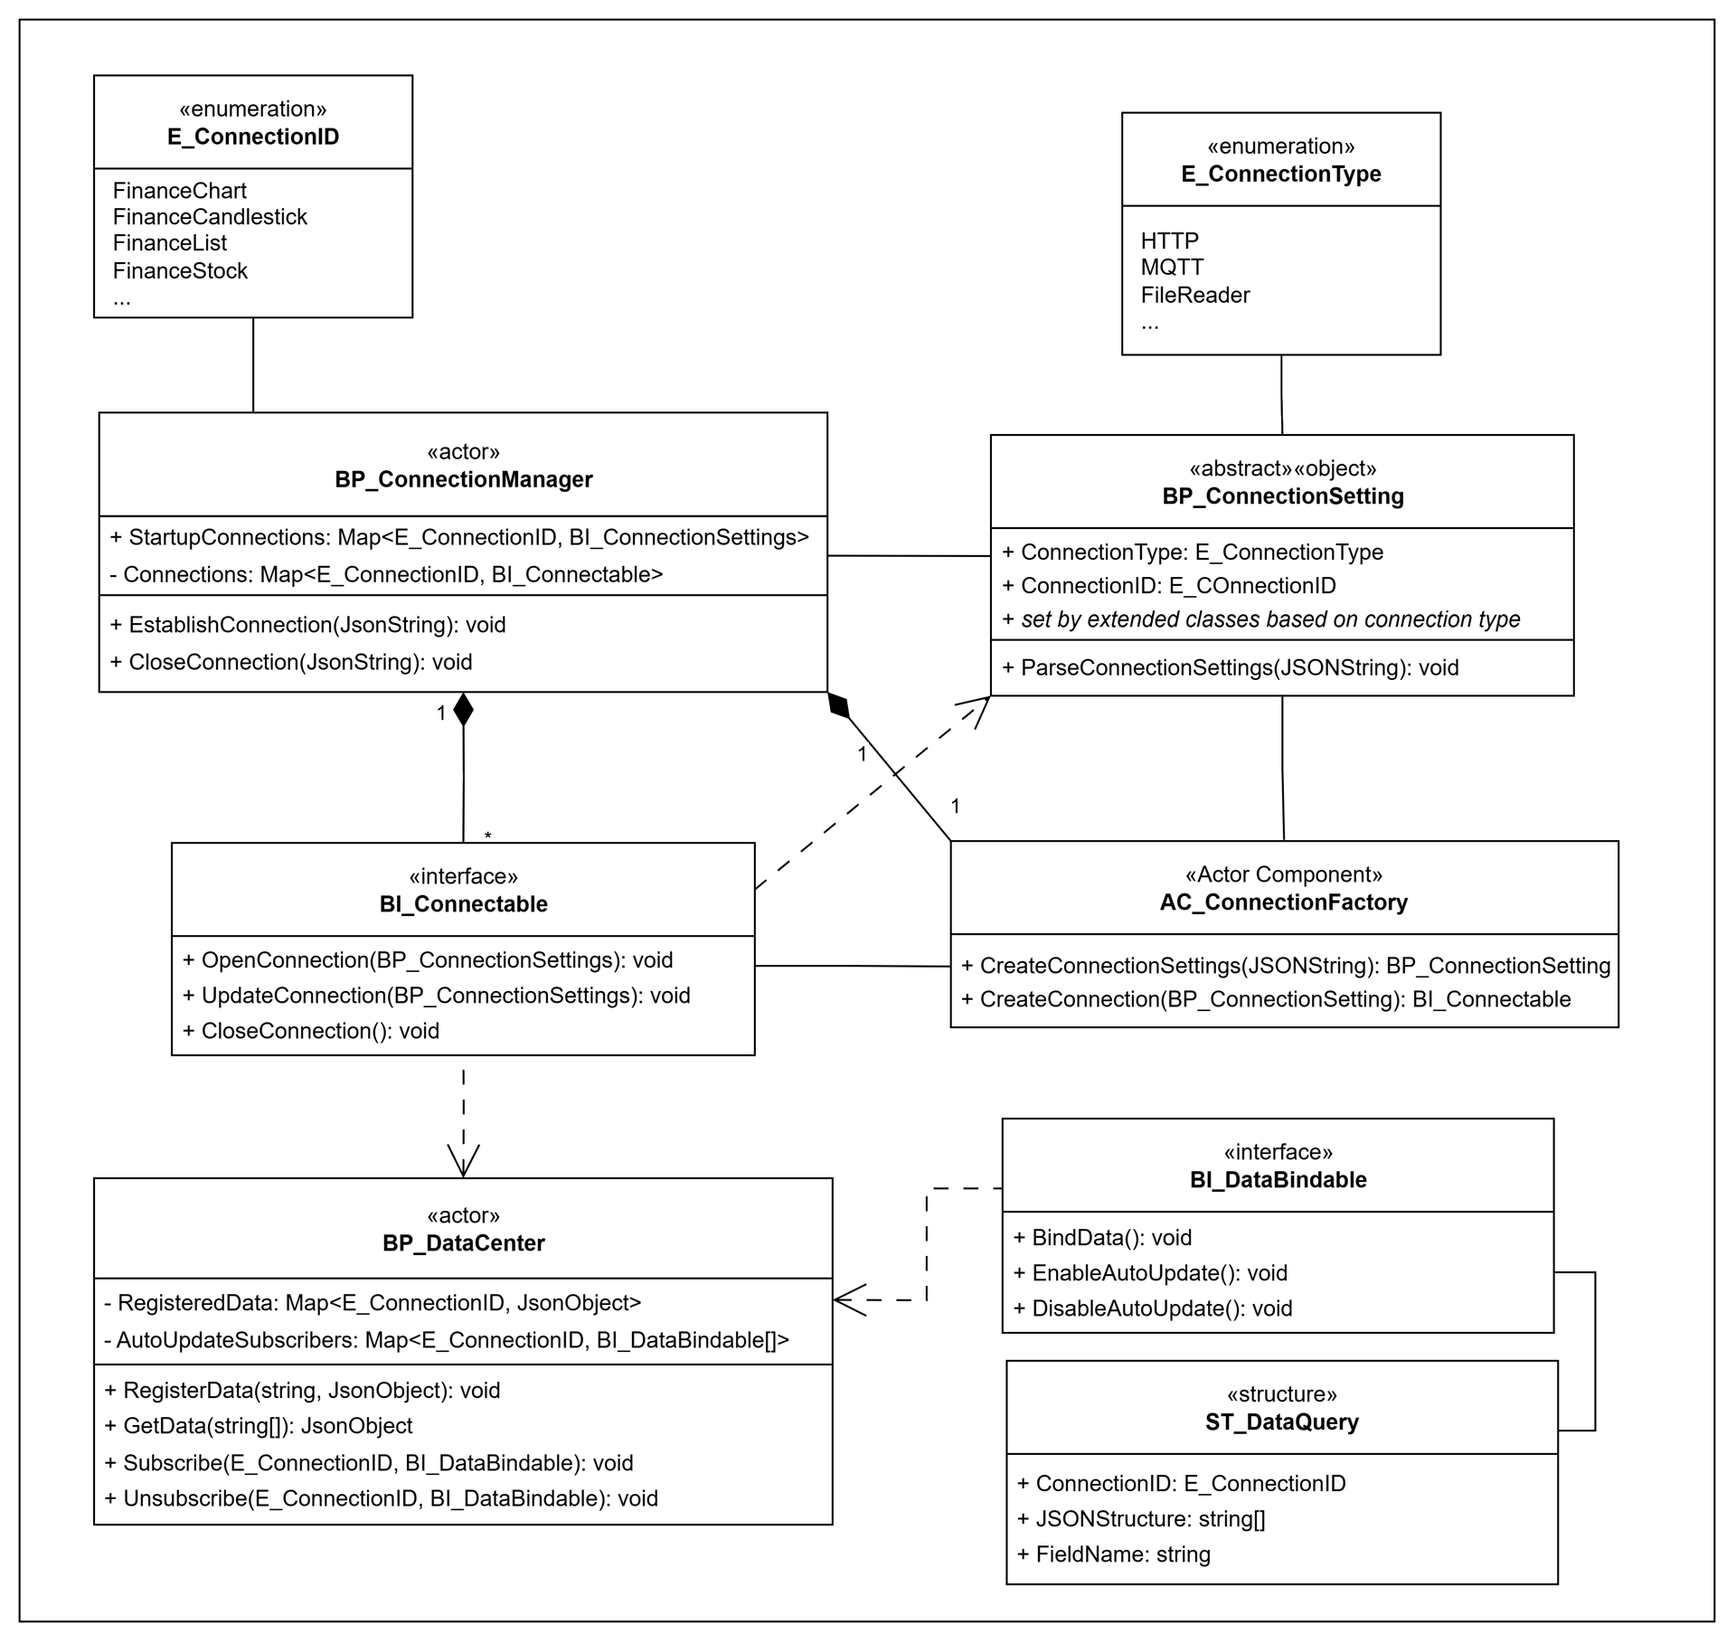
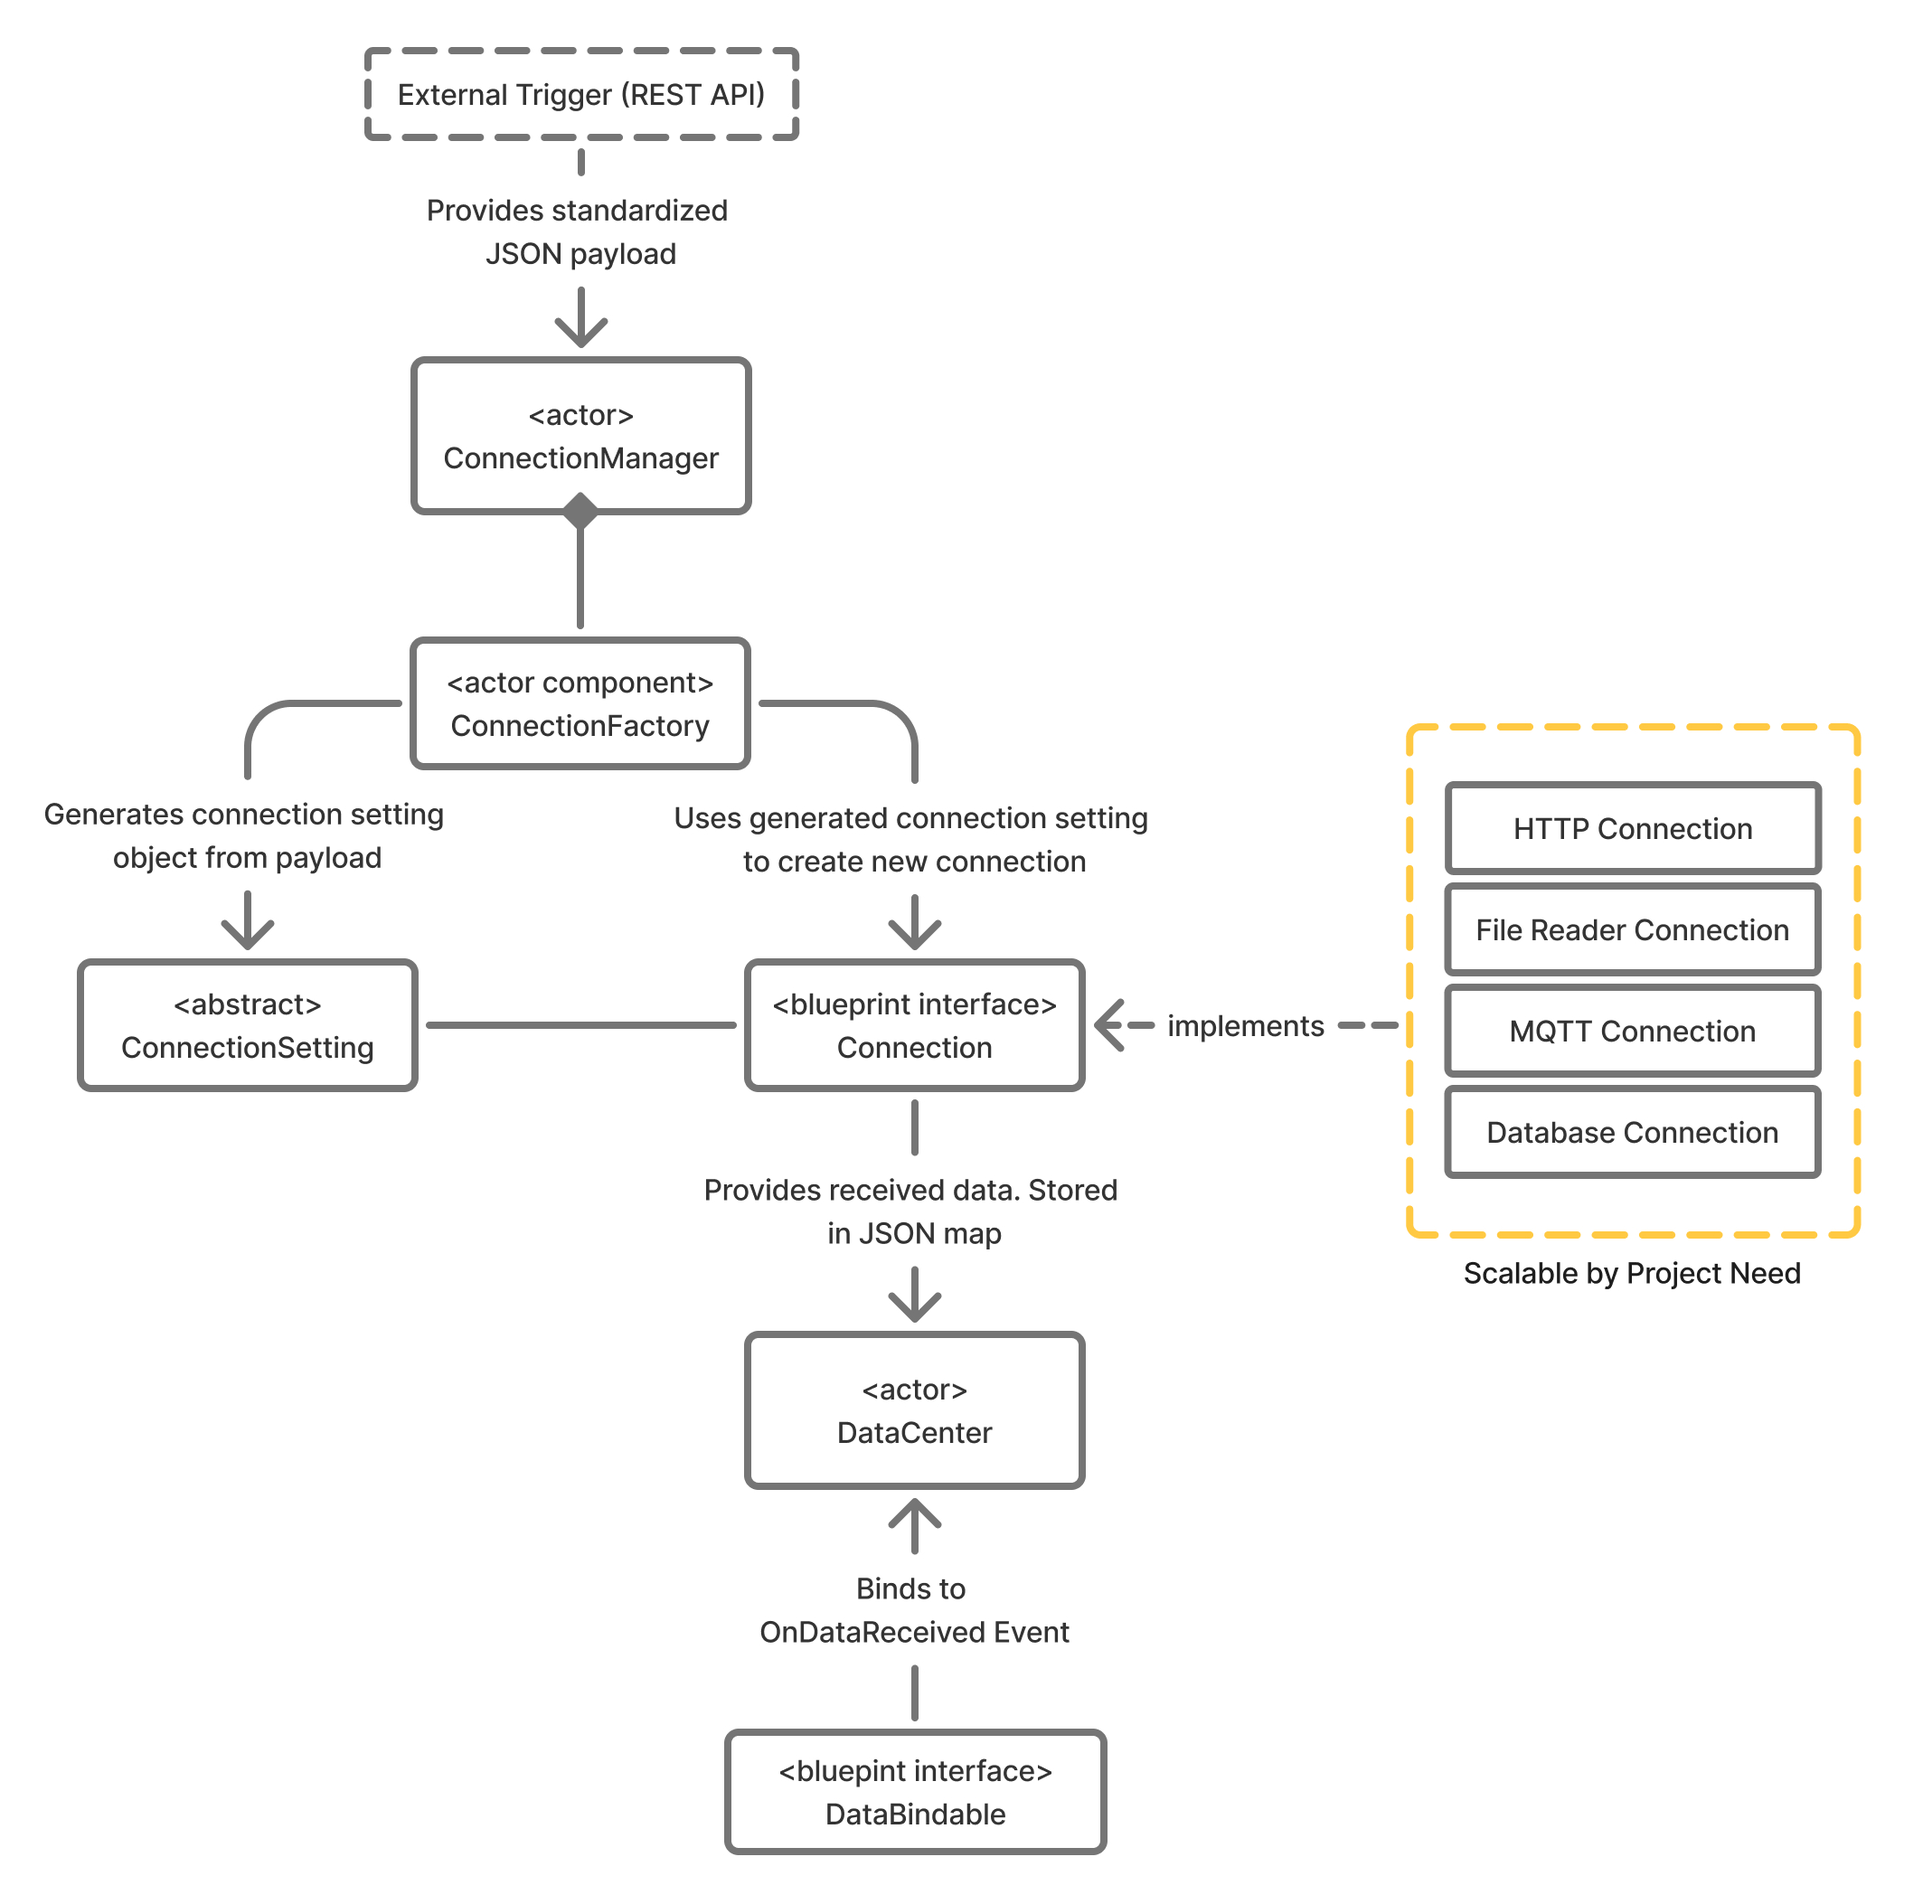
Updated Unreal framework diagrams to match diagram styles and removed proprietary information

diff --git a/_site/professional-case-studies/unity-framework/index.html b/_site/professional-case-studies/unity-framework/index.html
@@ -35,11 +35,11 @@
 <meta property="og:url" content="http://localhost:4000/professional-case-studies/unity-framework/" />
 <meta property="og:site_name" content="Julian Glass-Pilon" />
 <meta property="og:type" content="article" />
-<meta property="article:published_time" content="2026-04-01T15:39:46-04:00" />
+<meta property="article:published_time" content="2026-04-06T12:55:12-04:00" />
 <meta name="twitter:card" content="summary" />
 <meta property="twitter:title" content="Unity Framework for Broadcast" />
 <script type="application/ld+json">
-{"@context":"https://schema.org","@type":"BlogPosting","dateModified":"2026-04-01T15:39:46-04:00","datePublished":"2026-04-01T15:39:46-04:00","description":"Broadcast-friendly Unity framework designed to streamline the control and creation of data driven graphics for touchscreen interactive applications and increase iteration speed.","headline":"Unity Framework for Broadcast","mainEntityOfPage":{"@type":"WebPage","@id":"http://localhost:4000/professional-case-studies/unity-framework/"},"url":"http://localhost:4000/professional-case-studies/unity-framework/"}</script>
+{"@context":"https://schema.org","@type":"BlogPosting","dateModified":"2026-04-06T12:55:12-04:00","datePublished":"2026-04-06T12:55:12-04:00","description":"Broadcast-friendly Unity framework designed to streamline the control and creation of data driven graphics for touchscreen interactive applications and increase iteration speed.","headline":"Unity Framework for Broadcast","mainEntityOfPage":{"@type":"WebPage","@id":"http://localhost:4000/professional-case-studies/unity-framework/"},"url":"http://localhost:4000/professional-case-studies/unity-framework/"}</script>
 <!-- End Jekyll SEO tag -->
 
 

diff --git a/_site/professional-case-studies/unreal-framework/index.html b/_site/professional-case-studies/unreal-framework/index.html
@@ -35,11 +35,11 @@
 <meta property="og:url" content="http://localhost:4000/professional-case-studies/unreal-framework/" />
 <meta property="og:site_name" content="Julian Glass-Pilon" />
 <meta property="og:type" content="article" />
-<meta property="article:published_time" content="2026-04-01T15:39:46-04:00" />
+<meta property="article:published_time" content="2026-04-06T12:55:12-04:00" />
 <meta name="twitter:card" content="summary" />
 <meta property="twitter:title" content="Unreal Framework for Broadcast" />
 <script type="application/ld+json">
-{"@context":"https://schema.org","@type":"BlogPosting","dateModified":"2026-04-01T15:39:46-04:00","datePublished":"2026-04-01T15:39:46-04:00","description":"Broadcast-friendly Unreal framework designed to streamline the control and creation of data driven graphics for AR/VR with protocol agnostic data handling.","headline":"Unreal Framework for Broadcast","mainEntityOfPage":{"@type":"WebPage","@id":"http://localhost:4000/professional-case-studies/unreal-framework/"},"url":"http://localhost:4000/professional-case-studies/unreal-framework/"}</script>
+{"@context":"https://schema.org","@type":"BlogPosting","dateModified":"2026-04-06T12:55:12-04:00","datePublished":"2026-04-06T12:55:12-04:00","description":"Broadcast-friendly Unreal framework designed to streamline the control and creation of data driven graphics for AR/VR with protocol agnostic data handling.","headline":"Unreal Framework for Broadcast","mainEntityOfPage":{"@type":"WebPage","@id":"http://localhost:4000/professional-case-studies/unreal-framework/"},"url":"http://localhost:4000/professional-case-studies/unreal-framework/"}</script>
 <!-- End Jekyll SEO tag -->
 
 

diff --git a/_site/professional-case-studies/design-tools/index.html b/_site/professional-case-studies/design-tools/index.html
@@ -35,11 +35,11 @@
 <meta property="og:url" content="http://localhost:4000/professional-case-studies/design-tools/" />
 <meta property="og:site_name" content="Julian Glass-Pilon" />
 <meta property="og:type" content="article" />
-<meta property="article:published_time" content="2026-04-01T15:39:46-04:00" />
+<meta property="article:published_time" content="2026-04-06T12:55:12-04:00" />
 <meta name="twitter:card" content="summary" />
 <meta property="twitter:title" content="Design &amp; Integration Tools" />
 <script type="application/ld+json">
-{"@context":"https://schema.org","@type":"BlogPosting","dateModified":"2026-04-01T15:39:46-04:00","datePublished":"2026-04-01T15:39:46-04:00","description":"A collection of Unity UI systems designed to improve iteration speed, accessibility, and design fidelity through close collaboration with artists and UX designers.","headline":"Design &amp; Integration Tools","mainEntityOfPage":{"@type":"WebPage","@id":"http://localhost:4000/professional-case-studies/design-tools/"},"url":"http://localhost:4000/professional-case-studies/design-tools/"}</script>
+{"@context":"https://schema.org","@type":"BlogPosting","dateModified":"2026-04-06T12:55:12-04:00","datePublished":"2026-04-06T12:55:12-04:00","description":"A collection of Unity UI systems designed to improve iteration speed, accessibility, and design fidelity through close collaboration with artists and UX designers.","headline":"Design &amp; Integration Tools","mainEntityOfPage":{"@type":"WebPage","@id":"http://localhost:4000/professional-case-studies/design-tools/"},"url":"http://localhost:4000/professional-case-studies/design-tools/"}</script>
 <!-- End Jekyll SEO tag -->
 
 

diff --git a/_site/personal-projects/refantazio-menu-remake/index.html b/_site/personal-projects/refantazio-menu-remake/index.html
@@ -35,11 +35,11 @@
 <meta property="og:url" content="http://localhost:4000/personal-projects/refantazio-menu-remake/" />
 <meta property="og:site_name" content="Julian Glass-Pilon" />
 <meta property="og:type" content="article" />
-<meta property="article:published_time" content="2026-04-01T15:39:46-04:00" />
+<meta property="article:published_time" content="2026-04-06T12:55:12-04:00" />
 <meta name="twitter:card" content="summary" />
 <meta property="twitter:title" content="Metaphor Refantazio UI Recreation" />
 <script type="application/ld+json">
-{"@context":"https://schema.org","@type":"BlogPosting","dateModified":"2026-04-01T15:39:46-04:00","datePublished":"2026-04-01T15:39:46-04:00","description":"Recreation of the award winning Metaphor Refantazio’s UI &amp; Menu. Built in Unity.","headline":"Metaphor Refantazio UI Recreation","mainEntityOfPage":{"@type":"WebPage","@id":"http://localhost:4000/personal-projects/refantazio-menu-remake/"},"url":"http://localhost:4000/personal-projects/refantazio-menu-remake/"}</script>
+{"@context":"https://schema.org","@type":"BlogPosting","dateModified":"2026-04-06T12:55:12-04:00","datePublished":"2026-04-06T12:55:12-04:00","description":"Recreation of the award winning Metaphor Refantazio’s UI &amp; Menu. Built in Unity.","headline":"Metaphor Refantazio UI Recreation","mainEntityOfPage":{"@type":"WebPage","@id":"http://localhost:4000/personal-projects/refantazio-menu-remake/"},"url":"http://localhost:4000/personal-projects/refantazio-menu-remake/"}</script>
 <!-- End Jekyll SEO tag -->
 
 

diff --git a/_site/index.html b/_site/index.html
@@ -35,11 +35,11 @@
 <meta property="og:url" content="http://localhost:4000/" />
 <meta property="og:site_name" content="Julian Glass-Pilon" />
 <meta property="og:type" content="article" />
-<meta property="article:published_time" content="2026-04-01T15:39:46-04:00" />
+<meta property="article:published_time" content="2026-04-06T12:55:12-04:00" />
 <meta name="twitter:card" content="summary" />
 <meta property="twitter:title" content="Home" />
 <script type="application/ld+json">
-{"@context":"https://schema.org","@type":"WebSite","dateModified":"2026-04-01T15:39:46-04:00","datePublished":"2026-04-01T15:39:46-04:00","description":"A minimal, responsive and feature-rich Jekyll theme for technical writing.","headline":"Home","name":"Julian Glass-Pilon","sameAs":["https://github.com/jglasspilon","www.linkedin.com/in/julian-glass-pilon"],"url":"http://localhost:4000/"}</script>
+{"@context":"https://schema.org","@type":"WebSite","dateModified":"2026-04-06T12:55:12-04:00","datePublished":"2026-04-06T12:55:12-04:00","description":"A minimal, responsive and feature-rich Jekyll theme for technical writing.","headline":"Home","name":"Julian Glass-Pilon","sameAs":["https://github.com/jglasspilon","www.linkedin.com/in/julian-glass-pilon"],"url":"http://localhost:4000/"}</script>
 <!-- End Jekyll SEO tag -->
 
 

diff --git a/_site/professional-case-studies/index.html b/_site/professional-case-studies/index.html
@@ -35,11 +35,11 @@
 <meta property="og:url" content="http://localhost:4000/professional-case-studies/" />
 <meta property="og:site_name" content="Julian Glass-Pilon" />
 <meta property="og:type" content="article" />
-<meta property="article:published_time" content="2026-04-01T15:39:46-04:00" />
+<meta property="article:published_time" content="2026-04-06T12:55:12-04:00" />
 <meta name="twitter:card" content="summary" />
 <meta property="twitter:title" content="Professional Projects" />
 <script type="application/ld+json">
-{"@context":"https://schema.org","@type":"BlogPosting","dateModified":"2026-04-01T15:39:46-04:00","datePublished":"2026-04-01T15:39:46-04:00","description":"Professional Projects","headline":"Professional Projects","mainEntityOfPage":{"@type":"WebPage","@id":"http://localhost:4000/professional-case-studies/"},"url":"http://localhost:4000/professional-case-studies/"}</script>
+{"@context":"https://schema.org","@type":"BlogPosting","dateModified":"2026-04-06T12:55:12-04:00","datePublished":"2026-04-06T12:55:12-04:00","description":"Professional Projects","headline":"Professional Projects","mainEntityOfPage":{"@type":"WebPage","@id":"http://localhost:4000/professional-case-studies/"},"url":"http://localhost:4000/professional-case-studies/"}</script>
 <!-- End Jekyll SEO tag -->
 
 

diff --git a/_site/personal-projects/index.html b/_site/personal-projects/index.html
@@ -35,11 +35,11 @@
 <meta property="og:url" content="http://localhost:4000/personal-projects/" />
 <meta property="og:site_name" content="Julian Glass-Pilon" />
 <meta property="og:type" content="article" />
-<meta property="article:published_time" content="2026-04-01T15:39:46-04:00" />
+<meta property="article:published_time" content="2026-04-06T12:55:12-04:00" />
 <meta name="twitter:card" content="summary" />
 <meta property="twitter:title" content="Personal Projects" />
 <script type="application/ld+json">
-{"@context":"https://schema.org","@type":"BlogPosting","dateModified":"2026-04-01T15:39:46-04:00","datePublished":"2026-04-01T15:39:46-04:00","description":"Personal Projects","headline":"Personal Projects","mainEntityOfPage":{"@type":"WebPage","@id":"http://localhost:4000/personal-projects/"},"url":"http://localhost:4000/personal-projects/"}</script>
+{"@context":"https://schema.org","@type":"BlogPosting","dateModified":"2026-04-06T12:55:12-04:00","datePublished":"2026-04-06T12:55:12-04:00","description":"Personal Projects","headline":"Personal Projects","mainEntityOfPage":{"@type":"WebPage","@id":"http://localhost:4000/personal-projects/"},"url":"http://localhost:4000/personal-projects/"}</script>
 <!-- End Jekyll SEO tag -->
 
 

diff --git a/_site/contact-me/index.html b/_site/contact-me/index.html
@@ -35,11 +35,11 @@
 <meta property="og:url" content="http://localhost:4000/contact-me/" />
 <meta property="og:site_name" content="Julian Glass-Pilon" />
 <meta property="og:type" content="article" />
-<meta property="article:published_time" content="2026-04-01T15:39:46-04:00" />
+<meta property="article:published_time" content="2026-04-06T12:55:12-04:00" />
 <meta name="twitter:card" content="summary" />
 <meta property="twitter:title" content="Contact Me" />
 <script type="application/ld+json">
-{"@context":"https://schema.org","@type":"BlogPosting","dateModified":"2026-04-01T15:39:46-04:00","datePublished":"2026-04-01T15:39:46-04:00","description":"Contact Me","headline":"Contact Me","mainEntityOfPage":{"@type":"WebPage","@id":"http://localhost:4000/contact-me/"},"url":"http://localhost:4000/contact-me/"}</script>
+{"@context":"https://schema.org","@type":"BlogPosting","dateModified":"2026-04-06T12:55:12-04:00","datePublished":"2026-04-06T12:55:12-04:00","description":"Contact Me","headline":"Contact Me","mainEntityOfPage":{"@type":"WebPage","@id":"http://localhost:4000/contact-me/"},"url":"http://localhost:4000/contact-me/"}</script>
 <!-- End Jekyll SEO tag -->
 
 
